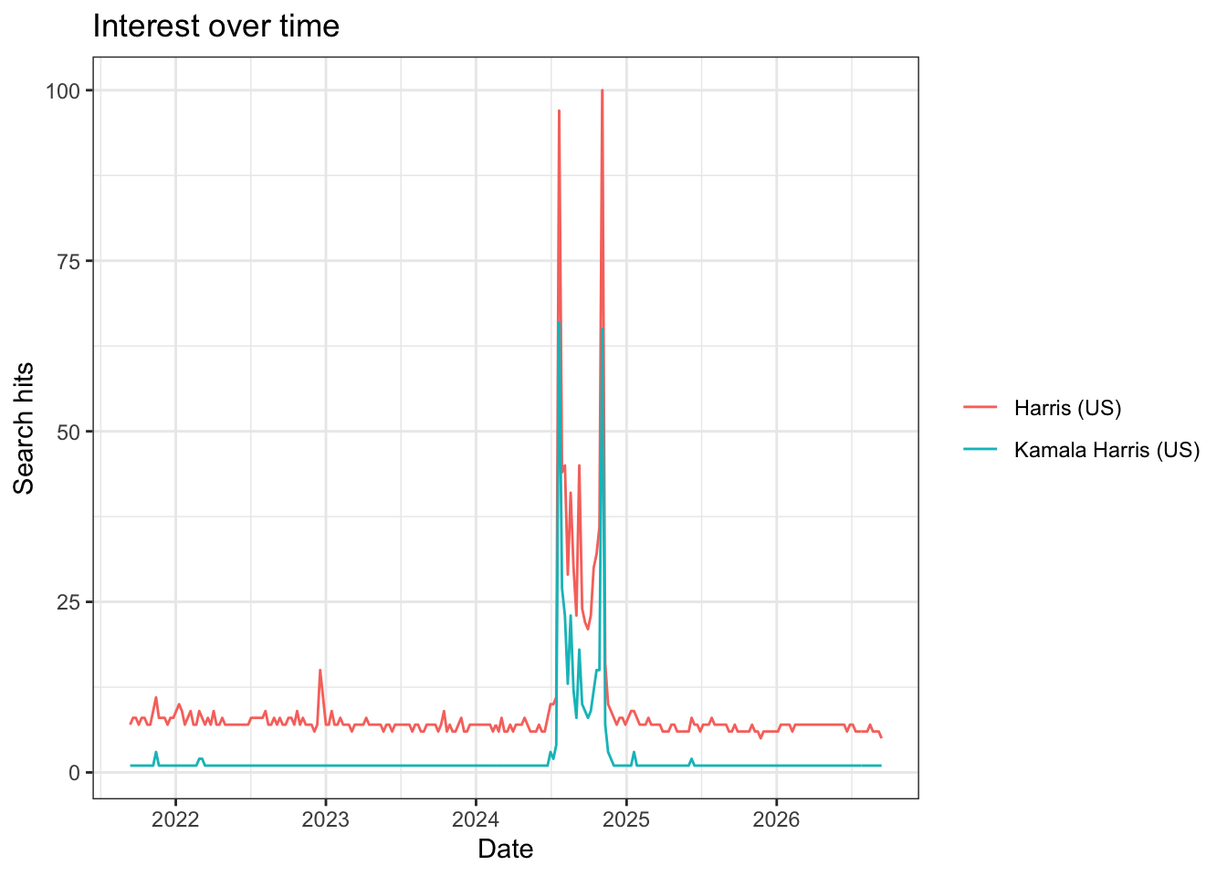
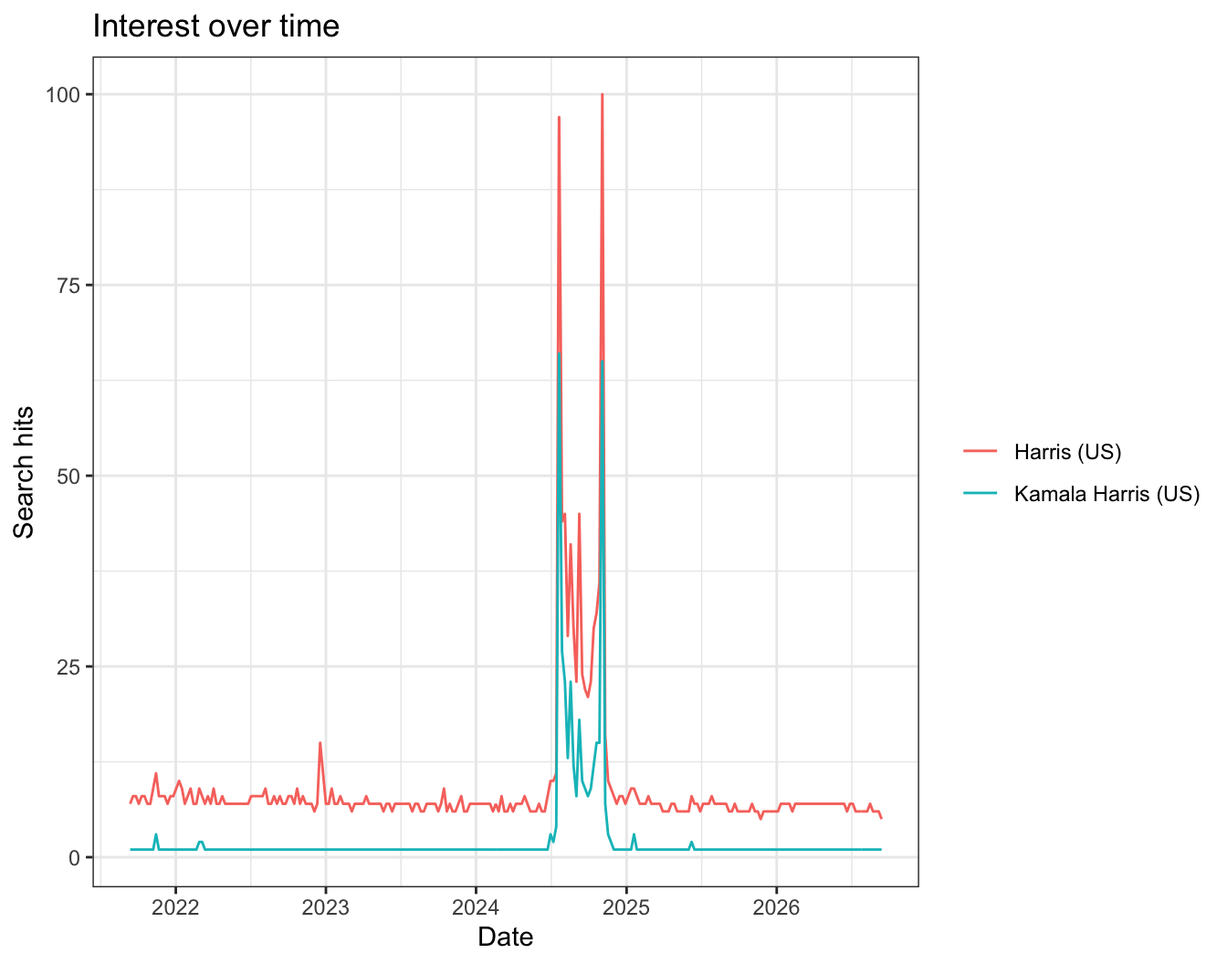
Update

diff --git a/Assignment02_cached.html b/Assignment02_cached.html
@@ -343,7 +343,7 @@ window.Quarto = {
 <section id="b.-interval" class="level3">
 <h3 class="anchored" data-anchor-id="b.-interval">b. Interval</h3>
 <p>What is the interval — hourly, daily, weekly, <strong><em>monthly</em></strong>? Now change the date window and download again <a href="https://jmglendenning.github.io/time_series_US_20260911-1903_20260912-1903.csv">csv</a>. Did the interval change?</p>
-<p><em>Yes, with ‘Last 24 hours’ the data is every 16 minutes. How odd.</em></p>
+<p><em>Yes, with ‘Last 24 hours’ the data is every 16 minutes. The original dataset uses monthly observations. Changing the window to “Last 24 hours” changed the interval to 16 minutes. Google Trends automatically adjusts its temporal resolution.</em></p>
 </section>
 <section id="c.-what-are-the-units-what-does-a-value-of-100-mean-and-0" class="level3">
 <h3 class="anchored" data-anchor-id="c.-what-are-the-units-what-does-a-value-of-100-mean-and-0">c.&nbsp;What are the units? What does a value of 100 mean, and 0?</h3>
@@ -425,9 +425,10 @@ window.Quarto = {
 <span id="cb1-57"><a href="#cb1-57" aria-hidden="true" tabindex="-1"></a>the_df <span class="ot">&lt;-</span> TrumpHarrisElection<span class="sc">$</span>interest_over_time</span>
 <span id="cb1-58"><a href="#cb1-58" aria-hidden="true" tabindex="-1"></a><span class="fu">plot</span>(TrumpHarrisElection)</span></code><button title="Copy to Clipboard" class="code-copy-button"><i class="bi"></i></button></pre></div>
 <div class="cell-output-display">
-<div>
+<div class="quarto-figure quarto-figure-center">
 <figure class="figure">
 <p><img src="Assignment02_cached_files/figure-html/chunk3-1.png" class="img-fluid figure-img" width="672"></p>
+<figcaption>Weekly relative search interest for Trump, Harris, and election in the United States, September 2021–September 2026.</figcaption>
 </figure>
 </div>
 </div>
@@ -451,9 +452,10 @@ window.Quarto = {
 <span id="cb3-5"><a href="#cb3-5" aria-hidden="true" tabindex="-1"></a>)</span>
 <span id="cb3-6"><a href="#cb3-6" aria-hidden="true" tabindex="-1"></a><span class="fu">plot</span>(tg)</span></code><button title="Copy to Clipboard" class="code-copy-button"><i class="bi"></i></button></pre></div>
 <div class="cell-output-display">
-<div>
+<div class="quarto-figure quarto-figure-center">
 <figure class="figure">
 <p><img src="Assignment02_cached_files/figure-html/unnamed-chunk-1-1.png" class="img-fluid figure-img" width="672"></p>
+<figcaption>Monthly worldwide relative search interest for tariff, January 2004–September 2026.</figcaption>
 </figure>
 </div>
 </div>
@@ -470,9 +472,10 @@ window.Quarto = {
 <span id="cb4-6"><a href="#cb4-6" aria-hidden="true" tabindex="-1"></a>)</span>
 <span id="cb4-7"><a href="#cb4-7" aria-hidden="true" tabindex="-1"></a><span class="fu">plot</span>(tg_gb)</span></code><button title="Copy to Clipboard" class="code-copy-button"><i class="bi"></i></button></pre></div>
 <div class="cell-output-display">
-<div>
+<div class="quarto-figure quarto-figure-center">
 <figure class="figure">
 <p><img src="Assignment02_cached_files/figure-html/unnamed-chunk-2-1.png" class="img-fluid figure-img" width="672"></p>
+<figcaption>Monthly relative search interest for tariff in Great Britain, January 2004–September 2026.</figcaption>
 </figure>
 </div>
 </div>
@@ -489,9 +492,10 @@ window.Quarto = {
 <span id="cb5-6"><a href="#cb5-6" aria-hidden="true" tabindex="-1"></a>)</span>
 <span id="cb5-7"><a href="#cb5-7" aria-hidden="true" tabindex="-1"></a><span class="fu">plot</span>(tg_countries)</span></code><button title="Copy to Clipboard" class="code-copy-button"><i class="bi"></i></button></pre></div>
 <div class="cell-output-display">
-<div>
+<div class="quarto-figure quarto-figure-center">
 <figure class="figure">
 <p><img src="Assignment02_cached_files/figure-html/unnamed-chunk-3-1.png" class="img-fluid figure-img" width="672"></p>
+<figcaption>Monthly relative search interest for tariff in the United States, Great Britain, and Taiwan, January 2004–September 2026.</figcaption>
 </figure>
 </div>
 </div>
@@ -507,9 +511,10 @@ window.Quarto = {
 <span id="cb6-5"><a href="#cb6-5" aria-hidden="true" tabindex="-1"></a>)</span>
 <span id="cb6-6"><a href="#cb6-6" aria-hidden="true" tabindex="-1"></a><span class="fu">plot</span>(tct)</span></code><button title="Copy to Clipboard" class="code-copy-button"><i class="bi"></i></button></pre></div>
 <div class="cell-output-display">
-<div>
+<div class="quarto-figure quarto-figure-center">
 <figure class="figure">
 <p><img src="Assignment02_cached_files/figure-html/unnamed-chunk-4-1.png" class="img-fluid figure-img" width="672"></p>
+<figcaption>Monthly worldwide relative search interest for tariff, China military, and Taiwan, January 2004–September 2026.</figcaption>
 </figure>
 </div>
 </div>
@@ -551,11 +556,24 @@ window.Quarto = {
 <span id="cb9-8"><a href="#cb9-8" aria-hidden="true" tabindex="-1"></a>  <span class="at">onlyInterest =</span> <span class="cn">TRUE</span></span>
 <span id="cb9-9"><a href="#cb9-9" aria-hidden="true" tabindex="-1"></a>)</span>
 <span id="cb9-10"><a href="#cb9-10" aria-hidden="true" tabindex="-1"></a></span>
-<span id="cb9-11"><a href="#cb9-11" aria-hidden="true" tabindex="-1"></a><span class="fu">plot</span>(harris_compare)</span></code><button title="Copy to Clipboard" class="code-copy-button"><i class="bi"></i></button></pre></div>
+<span id="cb9-11"><a href="#cb9-11" aria-hidden="true" tabindex="-1"></a>harris_plot <span class="ot">&lt;-</span> <span class="fu">plot</span>(harris_compare)</span></code><button title="Copy to Clipboard" class="code-copy-button"><i class="bi"></i></button></pre></div>
 <div class="cell-output-display">
-<div>
+<div class="quarto-figure quarto-figure-center">
 <figure class="figure">
 <p><img src="Assignment02_cached_files/figure-html/unnamed-chunk-6-1.png" class="img-fluid figure-img" width="672"></p>
+<figcaption>Weekly relative search interest for Harris and Kamala Harris in the United States, September 2021–September 2026.</figcaption>
+</figure>
+</div>
+</div>
+<div class="sourceCode cell-code" id="cb10"><pre class="sourceCode r code-with-copy"><code class="sourceCode r"><span id="cb10-1"><a href="#cb10-1" aria-hidden="true" tabindex="-1"></a>harris_plot <span class="sc">+</span></span>
+<span id="cb10-2"><a href="#cb10-2" aria-hidden="true" tabindex="-1"></a>  ggplot2<span class="sc">::</span><span class="fu">theme</span>(</span>
+<span id="cb10-3"><a href="#cb10-3" aria-hidden="true" tabindex="-1"></a>    <span class="at">plot.margin =</span> ggplot2<span class="sc">::</span><span class="fu">margin</span>(<span class="at">t =</span> <span class="dv">16</span>, <span class="at">r =</span> <span class="dv">8</span>, <span class="at">b =</span> <span class="dv">8</span>, <span class="at">l =</span> <span class="dv">8</span>)</span>
+<span id="cb10-4"><a href="#cb10-4" aria-hidden="true" tabindex="-1"></a>  )</span></code><button title="Copy to Clipboard" class="code-copy-button"><i class="bi"></i></button></pre></div>
+<div class="cell-output-display">
+<div class="quarto-figure quarto-figure-center">
+<figure class="figure">
+<p><img src="Assignment02_cached_files/figure-html/unnamed-chunk-6-2.png" class="img-fluid figure-img" width="672"></p>
+<figcaption>Weekly relative search interest for Harris and Kamala Harris in the United States, September 2021–September 2026.</figcaption>
 </figure>
 </div>
 </div>
@@ -567,74 +585,74 @@ window.Quarto = {
 <p>Harris is also a county, a supermarket chain, and several thousand other people. What does that gap tell you about the difference between a search term and the concept you meant to measure?</p>
 <p><strong>This difference shows that a search term is not necessarily identical to the concept being measured. <code>Harris</code> can refer to many people, places, or organizations, while <code>Kamala Harris</code> is a more specific query. Unfortunately, it is likely that as a search term <code>Harris</code> is being used to mean the same as <code>Kamala Harris</code> which will obfuscate or mix results.</strong></p>
 <div class="cell">
-<div class="sourceCode cell-code" id="cb10"><pre class="sourceCode r code-with-copy"><code class="sourceCode r"><span id="cb10-1"><a href="#cb10-1" aria-hidden="true" tabindex="-1"></a><span class="co"># These use two different cache files intentionally so it captures</span></span>
-<span id="cb10-2"><a href="#cb10-2" aria-hidden="true" tabindex="-1"></a><span class="co"># two independent Google Trends samples. Each sample is downloaded only once.</span></span>
-<span id="cb10-3"><a href="#cb10-3" aria-hidden="true" tabindex="-1"></a>repeat_pull_1 <span class="ot">&lt;-</span> <span class="fu">cached_gtrends</span>(</span>
-<span id="cb10-4"><a href="#cb10-4" aria-hidden="true" tabindex="-1"></a>  <span class="st">"repeat_trump_harris_election_1.rds"</span>,</span>
-<span id="cb10-5"><a href="#cb10-5" aria-hidden="true" tabindex="-1"></a>  <span class="fu">c</span>(<span class="st">"Trump"</span>, <span class="st">"Harris"</span>, <span class="st">"election"</span>),</span>
-<span id="cb10-6"><a href="#cb10-6" aria-hidden="true" tabindex="-1"></a>  <span class="at">onlyInterest =</span> <span class="cn">TRUE</span>,</span>
-<span id="cb10-7"><a href="#cb10-7" aria-hidden="true" tabindex="-1"></a>  <span class="at">geo =</span> <span class="st">"US"</span>,</span>
-<span id="cb10-8"><a href="#cb10-8" aria-hidden="true" tabindex="-1"></a>  <span class="at">gprop =</span> <span class="st">"web"</span>,</span>
-<span id="cb10-9"><a href="#cb10-9" aria-hidden="true" tabindex="-1"></a>  <span class="at">time =</span> <span class="st">"today+5-y"</span>,</span>
-<span id="cb10-10"><a href="#cb10-10" aria-hidden="true" tabindex="-1"></a>  <span class="at">category =</span> <span class="dv">0</span></span>
-<span id="cb10-11"><a href="#cb10-11" aria-hidden="true" tabindex="-1"></a>)</span>
-<span id="cb10-12"><a href="#cb10-12" aria-hidden="true" tabindex="-1"></a></span>
-<span id="cb10-13"><a href="#cb10-13" aria-hidden="true" tabindex="-1"></a><span class="co"># This second cache file created the second independent pull. Once it succeeds,</span></span>
-<span id="cb10-14"><a href="#cb10-14" aria-hidden="true" tabindex="-1"></a><span class="co"># it is also reused forever on later renders.</span></span>
-<span id="cb10-15"><a href="#cb10-15" aria-hidden="true" tabindex="-1"></a>repeat_pull_2 <span class="ot">&lt;-</span> <span class="fu">cached_gtrends</span>(</span>
-<span id="cb10-16"><a href="#cb10-16" aria-hidden="true" tabindex="-1"></a>  <span class="st">"repeat_trump_harris_election_2.rds"</span>,</span>
-<span id="cb10-17"><a href="#cb10-17" aria-hidden="true" tabindex="-1"></a>  <span class="fu">c</span>(<span class="st">"Trump"</span>, <span class="st">"Harris"</span>, <span class="st">"election"</span>),</span>
-<span id="cb10-18"><a href="#cb10-18" aria-hidden="true" tabindex="-1"></a>  <span class="at">onlyInterest =</span> <span class="cn">TRUE</span>,</span>
-<span id="cb10-19"><a href="#cb10-19" aria-hidden="true" tabindex="-1"></a>  <span class="at">geo =</span> <span class="st">"US"</span>,</span>
-<span id="cb10-20"><a href="#cb10-20" aria-hidden="true" tabindex="-1"></a>  <span class="at">gprop =</span> <span class="st">"web"</span>,</span>
-<span id="cb10-21"><a href="#cb10-21" aria-hidden="true" tabindex="-1"></a>  <span class="at">time =</span> <span class="st">"today+5-y"</span>,</span>
-<span id="cb10-22"><a href="#cb10-22" aria-hidden="true" tabindex="-1"></a>  <span class="at">category =</span> <span class="dv">0</span></span>
-<span id="cb10-23"><a href="#cb10-23" aria-hidden="true" tabindex="-1"></a>)</span>
-<span id="cb10-24"><a href="#cb10-24" aria-hidden="true" tabindex="-1"></a></span>
-<span id="cb10-25"><a href="#cb10-25" aria-hidden="true" tabindex="-1"></a>pull_1 <span class="ot">&lt;-</span> repeat_pull_1<span class="sc">$</span>interest_over_time</span>
-<span id="cb10-26"><a href="#cb10-26" aria-hidden="true" tabindex="-1"></a>pull_2 <span class="ot">&lt;-</span> repeat_pull_2<span class="sc">$</span>interest_over_time</span>
-<span id="cb10-27"><a href="#cb10-27" aria-hidden="true" tabindex="-1"></a></span>
-<span id="cb10-28"><a href="#cb10-28" aria-hidden="true" tabindex="-1"></a><span class="co"># Convert Google Trends scores to numbers.</span></span>
-<span id="cb10-29"><a href="#cb10-29" aria-hidden="true" tabindex="-1"></a><span class="co"># "&lt;1" is represented by its midpoint, 0.5.</span></span>
-<span id="cb10-30"><a href="#cb10-30" aria-hidden="true" tabindex="-1"></a>hits_to_numeric <span class="ot">&lt;-</span> <span class="cf">function</span>(x) {</span>
-<span id="cb10-31"><a href="#cb10-31" aria-hidden="true" tabindex="-1"></a>  x <span class="ot">&lt;-</span> <span class="fu">as.character</span>(x)</span>
-<span id="cb10-32"><a href="#cb10-32" aria-hidden="true" tabindex="-1"></a>  result <span class="ot">&lt;-</span> <span class="fu">suppressWarnings</span>(<span class="fu">as.numeric</span>(x))</span>
-<span id="cb10-33"><a href="#cb10-33" aria-hidden="true" tabindex="-1"></a>  result[x <span class="sc">==</span> <span class="st">"&lt;1"</span>] <span class="ot">&lt;-</span> <span class="fl">0.5</span></span>
-<span id="cb10-34"><a href="#cb10-34" aria-hidden="true" tabindex="-1"></a>  result</span>
-<span id="cb10-35"><a href="#cb10-35" aria-hidden="true" tabindex="-1"></a>}</span>
-<span id="cb10-36"><a href="#cb10-36" aria-hidden="true" tabindex="-1"></a></span>
-<span id="cb10-37"><a href="#cb10-37" aria-hidden="true" tabindex="-1"></a>pull_comparison <span class="ot">&lt;-</span> pull_1 <span class="sc">|&gt;</span></span>
-<span id="cb10-38"><a href="#cb10-38" aria-hidden="true" tabindex="-1"></a>  dplyr<span class="sc">::</span><span class="fu">transmute</span>(</span>
-<span id="cb10-39"><a href="#cb10-39" aria-hidden="true" tabindex="-1"></a>    date,</span>
-<span id="cb10-40"><a href="#cb10-40" aria-hidden="true" tabindex="-1"></a>    keyword,</span>
-<span id="cb10-41"><a href="#cb10-41" aria-hidden="true" tabindex="-1"></a>    <span class="at">hits_1_raw =</span> hits,</span>
-<span id="cb10-42"><a href="#cb10-42" aria-hidden="true" tabindex="-1"></a>    <span class="at">hits_1 =</span> <span class="fu">hits_to_numeric</span>(hits)</span>
-<span id="cb10-43"><a href="#cb10-43" aria-hidden="true" tabindex="-1"></a>  ) <span class="sc">|&gt;</span></span>
-<span id="cb10-44"><a href="#cb10-44" aria-hidden="true" tabindex="-1"></a>  dplyr<span class="sc">::</span><span class="fu">inner_join</span>(</span>
-<span id="cb10-45"><a href="#cb10-45" aria-hidden="true" tabindex="-1"></a>    pull_2 <span class="sc">|&gt;</span></span>
-<span id="cb10-46"><a href="#cb10-46" aria-hidden="true" tabindex="-1"></a>      dplyr<span class="sc">::</span><span class="fu">transmute</span>(</span>
-<span id="cb10-47"><a href="#cb10-47" aria-hidden="true" tabindex="-1"></a>        date,</span>
-<span id="cb10-48"><a href="#cb10-48" aria-hidden="true" tabindex="-1"></a>        keyword,</span>
-<span id="cb10-49"><a href="#cb10-49" aria-hidden="true" tabindex="-1"></a>        <span class="at">hits_2_raw =</span> hits,</span>
-<span id="cb10-50"><a href="#cb10-50" aria-hidden="true" tabindex="-1"></a>        <span class="at">hits_2 =</span> <span class="fu">hits_to_numeric</span>(hits)</span>
-<span id="cb10-51"><a href="#cb10-51" aria-hidden="true" tabindex="-1"></a>      ),</span>
-<span id="cb10-52"><a href="#cb10-52" aria-hidden="true" tabindex="-1"></a>    <span class="at">by =</span> <span class="fu">c</span>(<span class="st">"date"</span>, <span class="st">"keyword"</span>)</span>
-<span id="cb10-53"><a href="#cb10-53" aria-hidden="true" tabindex="-1"></a>  ) <span class="sc">|&gt;</span></span>
-<span id="cb10-54"><a href="#cb10-54" aria-hidden="true" tabindex="-1"></a>  dplyr<span class="sc">::</span><span class="fu">mutate</span>(</span>
-<span id="cb10-55"><a href="#cb10-55" aria-hidden="true" tabindex="-1"></a>    <span class="at">difference =</span> hits_2 <span class="sc">-</span> hits_1,</span>
-<span id="cb10-56"><a href="#cb10-56" aria-hidden="true" tabindex="-1"></a>    <span class="at">absolute_difference =</span> <span class="fu">abs</span>(difference)</span>
-<span id="cb10-57"><a href="#cb10-57" aria-hidden="true" tabindex="-1"></a>  )</span>
-<span id="cb10-58"><a href="#cb10-58" aria-hidden="true" tabindex="-1"></a></span>
-<span id="cb10-59"><a href="#cb10-59" aria-hidden="true" tabindex="-1"></a>pull_summary <span class="ot">&lt;-</span> pull_comparison <span class="sc">|&gt;</span></span>
-<span id="cb10-60"><a href="#cb10-60" aria-hidden="true" tabindex="-1"></a>  dplyr<span class="sc">::</span><span class="fu">summarise</span>(</span>
-<span id="cb10-61"><a href="#cb10-61" aria-hidden="true" tabindex="-1"></a>    <span class="at">exactly_identical =</span> <span class="fu">all</span>(hits_1_raw <span class="sc">==</span> hits_2_raw),</span>
-<span id="cb10-62"><a href="#cb10-62" aria-hidden="true" tabindex="-1"></a>    <span class="at">observations_compared =</span> dplyr<span class="sc">::</span><span class="fu">n</span>(),</span>
-<span id="cb10-63"><a href="#cb10-63" aria-hidden="true" tabindex="-1"></a>    <span class="at">observations_different =</span> <span class="fu">sum</span>(hits_1_raw <span class="sc">!=</span> hits_2_raw),</span>
-<span id="cb10-64"><a href="#cb10-64" aria-hidden="true" tabindex="-1"></a>    <span class="at">mean_absolute_difference =</span> <span class="fu">mean</span>(absolute_difference, <span class="at">na.rm =</span> <span class="cn">TRUE</span>),</span>
-<span id="cb10-65"><a href="#cb10-65" aria-hidden="true" tabindex="-1"></a>    <span class="at">maximum_absolute_difference =</span> <span class="fu">max</span>(absolute_difference, <span class="at">na.rm =</span> <span class="cn">TRUE</span>)</span>
-<span id="cb10-66"><a href="#cb10-66" aria-hidden="true" tabindex="-1"></a>  )</span>
-<span id="cb10-67"><a href="#cb10-67" aria-hidden="true" tabindex="-1"></a></span>
-<span id="cb10-68"><a href="#cb10-68" aria-hidden="true" tabindex="-1"></a>pull_summary</span></code><button title="Copy to Clipboard" class="code-copy-button"><i class="bi"></i></button></pre></div>
+<div class="sourceCode cell-code" id="cb11"><pre class="sourceCode r code-with-copy"><code class="sourceCode r"><span id="cb11-1"><a href="#cb11-1" aria-hidden="true" tabindex="-1"></a><span class="co"># These use two different cache files intentionally so it captures</span></span>
+<span id="cb11-2"><a href="#cb11-2" aria-hidden="true" tabindex="-1"></a><span class="co"># two independent Google Trends samples. Each sample is downloaded only once.</span></span>
+<span id="cb11-3"><a href="#cb11-3" aria-hidden="true" tabindex="-1"></a>repeat_pull_1 <span class="ot">&lt;-</span> <span class="fu">cached_gtrends</span>(</span>
+<span id="cb11-4"><a href="#cb11-4" aria-hidden="true" tabindex="-1"></a>  <span class="st">"repeat_trump_harris_election_1.rds"</span>,</span>
+<span id="cb11-5"><a href="#cb11-5" aria-hidden="true" tabindex="-1"></a>  <span class="fu">c</span>(<span class="st">"Trump"</span>, <span class="st">"Harris"</span>, <span class="st">"election"</span>),</span>
+<span id="cb11-6"><a href="#cb11-6" aria-hidden="true" tabindex="-1"></a>  <span class="at">onlyInterest =</span> <span class="cn">TRUE</span>,</span>
+<span id="cb11-7"><a href="#cb11-7" aria-hidden="true" tabindex="-1"></a>  <span class="at">geo =</span> <span class="st">"US"</span>,</span>
+<span id="cb11-8"><a href="#cb11-8" aria-hidden="true" tabindex="-1"></a>  <span class="at">gprop =</span> <span class="st">"web"</span>,</span>
+<span id="cb11-9"><a href="#cb11-9" aria-hidden="true" tabindex="-1"></a>  <span class="at">time =</span> <span class="st">"today+5-y"</span>,</span>
+<span id="cb11-10"><a href="#cb11-10" aria-hidden="true" tabindex="-1"></a>  <span class="at">category =</span> <span class="dv">0</span></span>
+<span id="cb11-11"><a href="#cb11-11" aria-hidden="true" tabindex="-1"></a>)</span>
+<span id="cb11-12"><a href="#cb11-12" aria-hidden="true" tabindex="-1"></a></span>
+<span id="cb11-13"><a href="#cb11-13" aria-hidden="true" tabindex="-1"></a><span class="co"># This second cache file created the second independent pull. Once it succeeds,</span></span>
+<span id="cb11-14"><a href="#cb11-14" aria-hidden="true" tabindex="-1"></a><span class="co"># it is also reused forever on later renders.</span></span>
+<span id="cb11-15"><a href="#cb11-15" aria-hidden="true" tabindex="-1"></a>repeat_pull_2 <span class="ot">&lt;-</span> <span class="fu">cached_gtrends</span>(</span>
+<span id="cb11-16"><a href="#cb11-16" aria-hidden="true" tabindex="-1"></a>  <span class="st">"repeat_trump_harris_election_2.rds"</span>,</span>
+<span id="cb11-17"><a href="#cb11-17" aria-hidden="true" tabindex="-1"></a>  <span class="fu">c</span>(<span class="st">"Trump"</span>, <span class="st">"Harris"</span>, <span class="st">"election"</span>),</span>
+<span id="cb11-18"><a href="#cb11-18" aria-hidden="true" tabindex="-1"></a>  <span class="at">onlyInterest =</span> <span class="cn">TRUE</span>,</span>
+<span id="cb11-19"><a href="#cb11-19" aria-hidden="true" tabindex="-1"></a>  <span class="at">geo =</span> <span class="st">"US"</span>,</span>
+<span id="cb11-20"><a href="#cb11-20" aria-hidden="true" tabindex="-1"></a>  <span class="at">gprop =</span> <span class="st">"web"</span>,</span>
+<span id="cb11-21"><a href="#cb11-21" aria-hidden="true" tabindex="-1"></a>  <span class="at">time =</span> <span class="st">"today+5-y"</span>,</span>
+<span id="cb11-22"><a href="#cb11-22" aria-hidden="true" tabindex="-1"></a>  <span class="at">category =</span> <span class="dv">0</span></span>
+<span id="cb11-23"><a href="#cb11-23" aria-hidden="true" tabindex="-1"></a>)</span>
+<span id="cb11-24"><a href="#cb11-24" aria-hidden="true" tabindex="-1"></a></span>
+<span id="cb11-25"><a href="#cb11-25" aria-hidden="true" tabindex="-1"></a>pull_1 <span class="ot">&lt;-</span> repeat_pull_1<span class="sc">$</span>interest_over_time</span>
+<span id="cb11-26"><a href="#cb11-26" aria-hidden="true" tabindex="-1"></a>pull_2 <span class="ot">&lt;-</span> repeat_pull_2<span class="sc">$</span>interest_over_time</span>
+<span id="cb11-27"><a href="#cb11-27" aria-hidden="true" tabindex="-1"></a></span>
+<span id="cb11-28"><a href="#cb11-28" aria-hidden="true" tabindex="-1"></a><span class="co"># Convert Google Trends scores to numbers.</span></span>
+<span id="cb11-29"><a href="#cb11-29" aria-hidden="true" tabindex="-1"></a><span class="co"># "&lt;1" is represented by its midpoint, 0.5.</span></span>
+<span id="cb11-30"><a href="#cb11-30" aria-hidden="true" tabindex="-1"></a>hits_to_numeric <span class="ot">&lt;-</span> <span class="cf">function</span>(x) {</span>
+<span id="cb11-31"><a href="#cb11-31" aria-hidden="true" tabindex="-1"></a>  x <span class="ot">&lt;-</span> <span class="fu">as.character</span>(x)</span>
+<span id="cb11-32"><a href="#cb11-32" aria-hidden="true" tabindex="-1"></a>  result <span class="ot">&lt;-</span> <span class="fu">suppressWarnings</span>(<span class="fu">as.numeric</span>(x))</span>
+<span id="cb11-33"><a href="#cb11-33" aria-hidden="true" tabindex="-1"></a>  result[x <span class="sc">==</span> <span class="st">"&lt;1"</span>] <span class="ot">&lt;-</span> <span class="fl">0.5</span></span>
+<span id="cb11-34"><a href="#cb11-34" aria-hidden="true" tabindex="-1"></a>  result</span>
+<span id="cb11-35"><a href="#cb11-35" aria-hidden="true" tabindex="-1"></a>}</span>
+<span id="cb11-36"><a href="#cb11-36" aria-hidden="true" tabindex="-1"></a></span>
+<span id="cb11-37"><a href="#cb11-37" aria-hidden="true" tabindex="-1"></a>pull_comparison <span class="ot">&lt;-</span> pull_1 <span class="sc">|&gt;</span></span>
+<span id="cb11-38"><a href="#cb11-38" aria-hidden="true" tabindex="-1"></a>  dplyr<span class="sc">::</span><span class="fu">transmute</span>(</span>
+<span id="cb11-39"><a href="#cb11-39" aria-hidden="true" tabindex="-1"></a>    date,</span>
+<span id="cb11-40"><a href="#cb11-40" aria-hidden="true" tabindex="-1"></a>    keyword,</span>
+<span id="cb11-41"><a href="#cb11-41" aria-hidden="true" tabindex="-1"></a>    <span class="at">hits_1_raw =</span> hits,</span>
+<span id="cb11-42"><a href="#cb11-42" aria-hidden="true" tabindex="-1"></a>    <span class="at">hits_1 =</span> <span class="fu">hits_to_numeric</span>(hits)</span>
+<span id="cb11-43"><a href="#cb11-43" aria-hidden="true" tabindex="-1"></a>  ) <span class="sc">|&gt;</span></span>
+<span id="cb11-44"><a href="#cb11-44" aria-hidden="true" tabindex="-1"></a>  dplyr<span class="sc">::</span><span class="fu">inner_join</span>(</span>
+<span id="cb11-45"><a href="#cb11-45" aria-hidden="true" tabindex="-1"></a>    pull_2 <span class="sc">|&gt;</span></span>
+<span id="cb11-46"><a href="#cb11-46" aria-hidden="true" tabindex="-1"></a>      dplyr<span class="sc">::</span><span class="fu">transmute</span>(</span>
+<span id="cb11-47"><a href="#cb11-47" aria-hidden="true" tabindex="-1"></a>        date,</span>
+<span id="cb11-48"><a href="#cb11-48" aria-hidden="true" tabindex="-1"></a>        keyword,</span>
+<span id="cb11-49"><a href="#cb11-49" aria-hidden="true" tabindex="-1"></a>        <span class="at">hits_2_raw =</span> hits,</span>
+<span id="cb11-50"><a href="#cb11-50" aria-hidden="true" tabindex="-1"></a>        <span class="at">hits_2 =</span> <span class="fu">hits_to_numeric</span>(hits)</span>
+<span id="cb11-51"><a href="#cb11-51" aria-hidden="true" tabindex="-1"></a>      ),</span>
+<span id="cb11-52"><a href="#cb11-52" aria-hidden="true" tabindex="-1"></a>    <span class="at">by =</span> <span class="fu">c</span>(<span class="st">"date"</span>, <span class="st">"keyword"</span>)</span>
+<span id="cb11-53"><a href="#cb11-53" aria-hidden="true" tabindex="-1"></a>  ) <span class="sc">|&gt;</span></span>
+<span id="cb11-54"><a href="#cb11-54" aria-hidden="true" tabindex="-1"></a>  dplyr<span class="sc">::</span><span class="fu">mutate</span>(</span>
+<span id="cb11-55"><a href="#cb11-55" aria-hidden="true" tabindex="-1"></a>    <span class="at">difference =</span> hits_2 <span class="sc">-</span> hits_1,</span>
+<span id="cb11-56"><a href="#cb11-56" aria-hidden="true" tabindex="-1"></a>    <span class="at">absolute_difference =</span> <span class="fu">abs</span>(difference)</span>
+<span id="cb11-57"><a href="#cb11-57" aria-hidden="true" tabindex="-1"></a>  )</span>
+<span id="cb11-58"><a href="#cb11-58" aria-hidden="true" tabindex="-1"></a></span>
+<span id="cb11-59"><a href="#cb11-59" aria-hidden="true" tabindex="-1"></a>pull_summary <span class="ot">&lt;-</span> pull_comparison <span class="sc">|&gt;</span></span>
+<span id="cb11-60"><a href="#cb11-60" aria-hidden="true" tabindex="-1"></a>  dplyr<span class="sc">::</span><span class="fu">summarise</span>(</span>
+<span id="cb11-61"><a href="#cb11-61" aria-hidden="true" tabindex="-1"></a>    <span class="at">exactly_identical =</span> <span class="fu">all</span>(hits_1_raw <span class="sc">==</span> hits_2_raw),</span>
+<span id="cb11-62"><a href="#cb11-62" aria-hidden="true" tabindex="-1"></a>    <span class="at">observations_compared =</span> dplyr<span class="sc">::</span><span class="fu">n</span>(),</span>
+<span id="cb11-63"><a href="#cb11-63" aria-hidden="true" tabindex="-1"></a>    <span class="at">observations_different =</span> <span class="fu">sum</span>(hits_1_raw <span class="sc">!=</span> hits_2_raw),</span>
+<span id="cb11-64"><a href="#cb11-64" aria-hidden="true" tabindex="-1"></a>    <span class="at">mean_absolute_difference =</span> <span class="fu">mean</span>(absolute_difference, <span class="at">na.rm =</span> <span class="cn">TRUE</span>),</span>
+<span id="cb11-65"><a href="#cb11-65" aria-hidden="true" tabindex="-1"></a>    <span class="at">maximum_absolute_difference =</span> <span class="fu">max</span>(absolute_difference, <span class="at">na.rm =</span> <span class="cn">TRUE</span>)</span>
+<span id="cb11-66"><a href="#cb11-66" aria-hidden="true" tabindex="-1"></a>  )</span>
+<span id="cb11-67"><a href="#cb11-67" aria-hidden="true" tabindex="-1"></a></span>
+<span id="cb11-68"><a href="#cb11-68" aria-hidden="true" tabindex="-1"></a>pull_summary</span></code><button title="Copy to Clipboard" class="code-copy-button"><i class="bi"></i></button></pre></div>
 <div class="cell-output cell-output-stdout">
 <pre><code>  exactly_identical observations_compared observations_different
 1              TRUE                   786                      0
@@ -681,7 +699,7 @@ window.Quarto = {
 </section>
 <section id="b.-open-with-the-query-parameters-from-a.1.c-that-block-is-a-small-datasheet-for-your-data." class="level3">
 <h3 class="anchored" data-anchor-id="b.-open-with-the-query-parameters-from-a.1.c-that-block-is-a-small-datasheet-for-your-data.">b. Open with the query parameters from <code>A.1.c</code> — that block is a small datasheet for your data.</h3>
-<p>See above.</p>
+<p>The query datasheet records the search terms, geography, time window, category, search type, pull time, and source data.</p>
 </section>
 <section id="c.-publish-as-assign02.qmd-under-assignments-on-your-website-and-send-the-url-to-the-teaching-assistant." class="level3">
 <h3 class="anchored" data-anchor-id="c.-publish-as-assign02.qmd-under-assignments-on-your-website-and-send-the-url-to-the-teaching-assistant.">c.&nbsp;Publish as assign02.qmd under Assignments on your website, and send the URL to the teaching assistant.</h3>
@@ -690,7 +708,6 @@ window.Quarto = {
 <section id="submit" class="level2">
 <h2 class="anchored" data-anchor-id="submit">Submit</h2>
 <p>Assignment page: <a href="https://jmglendenning.github.io/Assignment02_cached.html">https://jmglendenning.github.io/Assignment02_cached.html</a></p>
-<p><em>Done</em></p>
 
 
 
